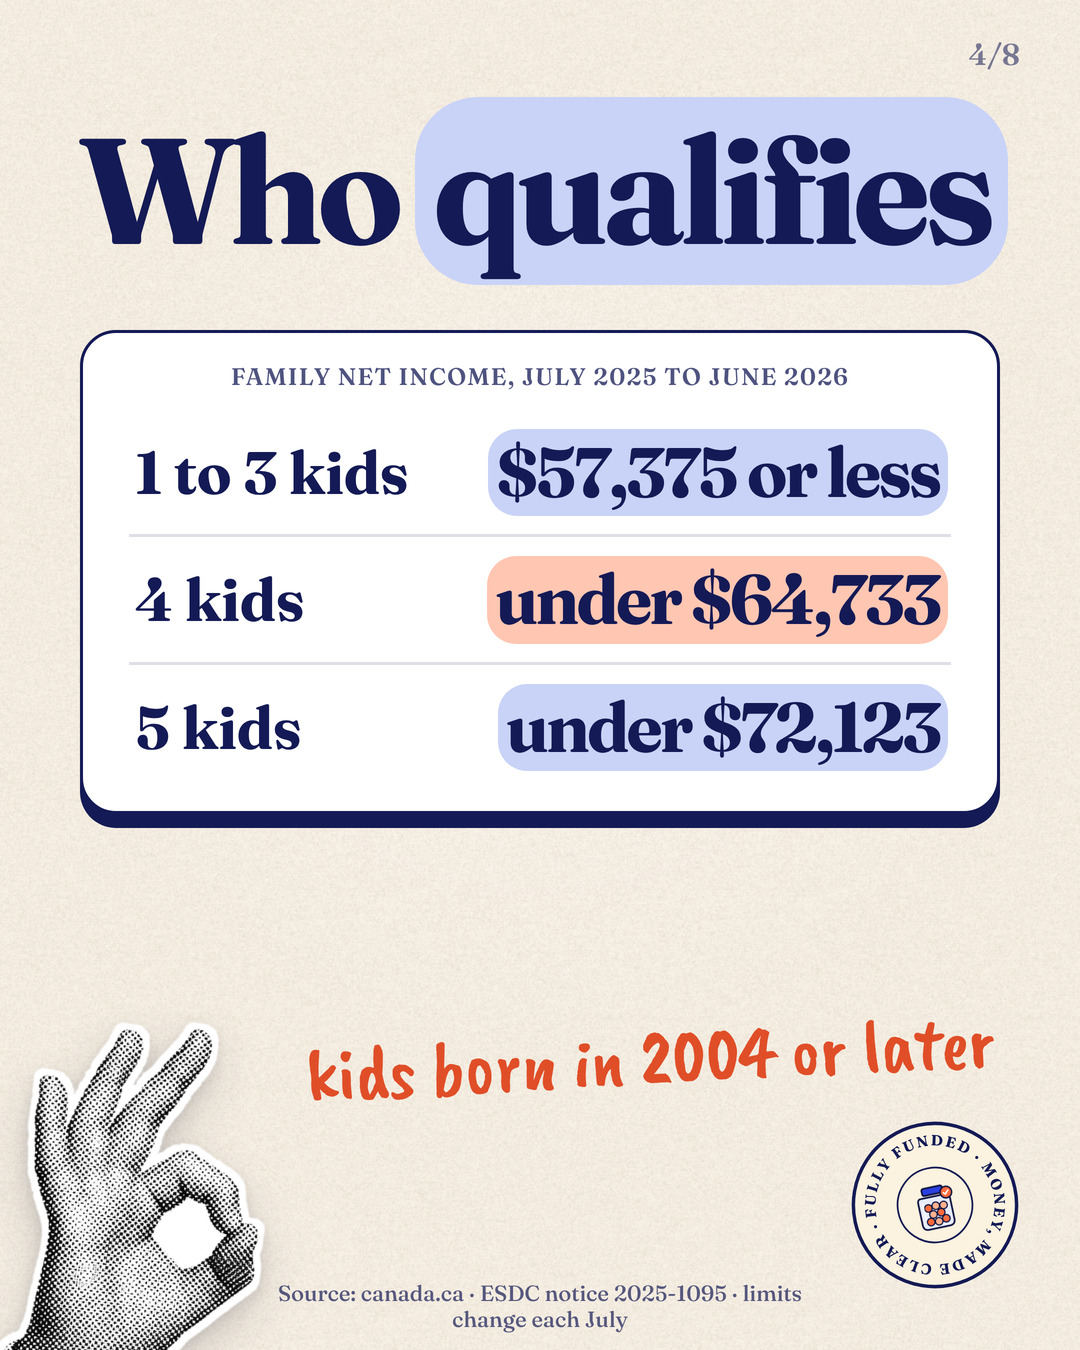
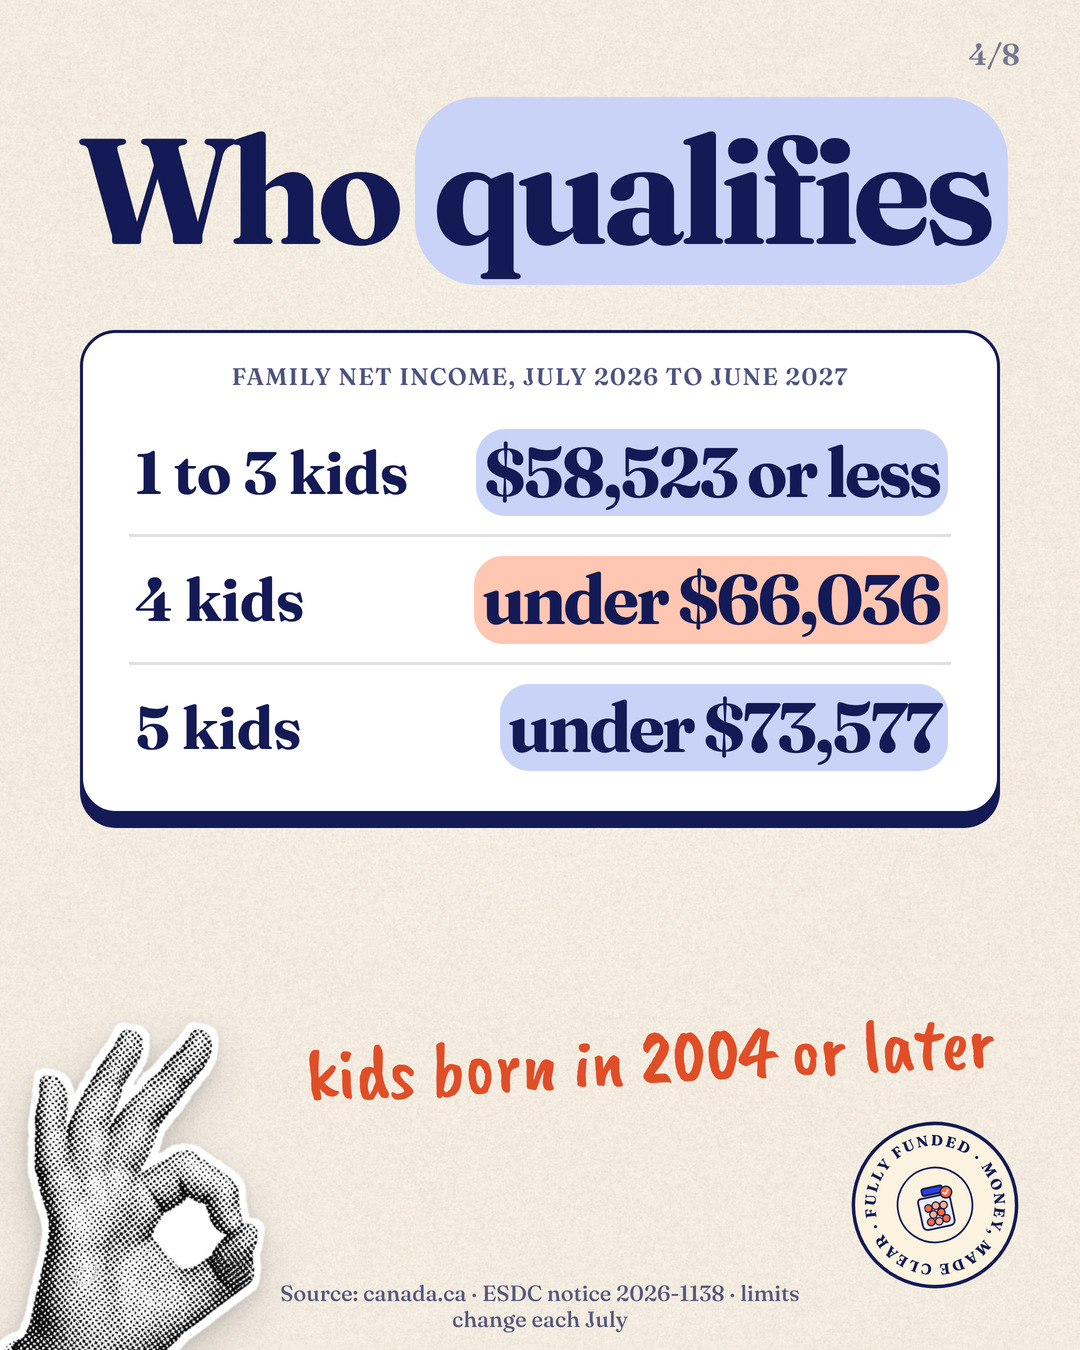
Learning Bond posts: current July 2026-June 2027 income limits (ESDC notice 2026-1138)
Claude-Session: https://claude.ai/code/session_01PJwkTdhx1VuEhXpAhTUaLc

diff --git a/studio/editorial/v5_ff.py b/studio/editorial/v5_ff.py
@@ -236,9 +236,9 @@ post("ff-1021-clb-who-qualifies", FF, "2026-10-21T12:00", "learning",
      [dict(k="say", f="lite", label="sound too good?", text="The government / can put up to / *$2,000* toward / your kid's school.",
            size=124, sub="and you add $0"),
       dict(k="say", f="cob", label="the Canada Learning Bond", text="*$500* to start. / *$100* more / each year. / Up to $2,000.", size=124),
-      dict(k="rows", f="lite", text="Who *qualifies*", cap="family net income, July 2025 to June 2026",
-           rows=[("1 to 3 kids", "$57,375 or less"), ("4 kids", "under $64,733"), ("5 kids", "under $72,123")],
-           sub="kids born in 2004 or later", src="canada.ca · ESDC notice 2025-1095 · limits change each July"),
+      dict(k="rows", f="lite", text="Who *qualifies*", cap="family net income, July 2026 to June 2027",
+           rows=[("1 to 3 kids", "$58,523 or less"), ("4 kids", "under $66,036"), ("5 kids", "under $73,577")],
+           sub="kids born in 2004 or later", src="canada.ca · ESDC notice 2026-1138 · limits change each July"),
       dict(k="say", f="coral", label="the part nobody mentions", text="It only lands / in an *RESP:* / a savings account / for school.",
            size=124),
       dict(k="say", f="cob", label="you're not alone", text="In 2022, / *2.5 million* / eligible kids / never got it.",
@@ -249,15 +249,15 @@ post("ff-1021-clb-who-qualifies", FF, "2026-10-21T12:00", "learning",
            size=100, save="send this to a new parent")],
      "The government will put up to $2,000 toward your child's education, and you don't have to add a dollar.\n\n"
      "It's called the Canada Learning Bond. It starts with $500, then adds $100 every year, up to $2,000.\n\n"
-     "Who qualifies (July 2025 to June 2026): kids born in 2004 or later, in families with net income of $57,375 or less for 1 to 3 kids, "
-     "under $64,733 for 4 kids, or under $72,123 for 5 kids. The limits change each July.\n\nThe part nobody mentions: the money only lands "
+     "Who qualifies (July 2026 to June 2027): kids born in 2004 or later, in families with net income of $58,523 or less for 1 to 3 kids, "
+     "under $66,036 for 4 kids, or under $73,577 for 5 kids. The limits change each July.\n\nThe part nobody mentions: the money only lands "
      "in an RESP, a savings account for school. Many banks open one for free. In 2022, about 2.5 million eligible kids had never received it. "
      "Didn't apply when they were a baby? You can still apply until your child turns 21.\n\n"
      "Do this: this week, ask your bank to open an RESP with the Canada Learning Bond. Bring your child's SIN.\n\n"
      "Money Foundations, Part 4. Send this to a new parent.\n\n#RESP #canadalearningbond #parenting #canadianfinance #moneyfoundations",
      "Sources: canada.ca (CRA), Canada Learning Bond: up to $2,000; $500 for the first eligible year plus $100 for each additional year "
      "up to age 15; children born in 2004 or later; personal contributions are not required; the beneficiary must be under 21 when applying. "
-     "Income limits: ESDC notice 2025-1095, July 1, 2025 to June 30, 2026 (adjusted family net income). Take-up: Godbout & Samoisette, "
+     "Income limits: ESDC notice 2026-1138, July 1, 2026 to June 30, 2027 (adjusted family net income). Take-up: Godbout & Samoisette, "
      "C.D. Howe Institute, \"On Its Anniversary, Has the Goal of the Canada Learning Bond Been Achieved?\", citing ESDC's 2022 Canada "
      "Education Savings Program statistical review: take-up rose from 29.1% (2013) to 42.5% (2022); 2.5 million of 4.4 million eligible "
      "children had not received it.")

diff --git a/studio/editorial/v5_lf.py b/studio/editorial/v5_lf.py
@@ -1,8 +1,8 @@
 """Littlefold content, Oct 18-21. Rewritten Oct 17 night to the ONE-READ standard (/home/claude/one-read-standard.md).
 Uses post()/reel()/chain() from specs_teach. Only this page's entries live here.
 Kids' money figures checked on canada.ca (Oct 17): CESG 20% on the first $2,500 a year (max $500/yr basic, $7,200 lifetime,
-catch-up up to $1,000 a year); CLB $500 + $100/yr up to $2,000, no contribution, born 2004+, ADFNI <= $57,375 for 1-3 kids
-(Jul 2025 - Jun 2026, ESDC notice 2025-1095)."""
+catch-up up to $1,000 a year); CLB $500 + $100/yr up to $2,000, no contribution, born 2004+, ADFNI <= $58,523 for 1-3 kids
+(Jul 2026 - Jun 2027, ESDC notice 2026-1138)."""
 from specs_teach import post, reel, chain, FF, HB, LH, LF, NG, NOT_MED, MADE, PRIV, K  # noqa: F401
 
 
@@ -26,7 +26,7 @@ CESG_SRC = ("Government of Canada, canada.ca, Canada Education Savings Grant: th
             "$1,000 of grant in one year, until the end of the year the child turns 17.")
 CLB_SRC = ("Government of Canada, canada.ca, Canada Learning Bond: $500 the first year, then $100 for each year you qualify, up to "
            "$2,000. No personal contribution needed. Children born in 2004 or later, from lower-income families. Income limit for "
-           "July 2025 to June 2026: adjusted family net income of $57,375 or less for 1 to 3 children (ESDC notice 2025-1095).")
+           "July 2026 to June 2027: adjusted family net income of $58,523 or less for 1 to 3 children (ESDC notice 2026-1138).")
 
 # ================================================================== FEED
 # Oct 18, 11:30 · REPLACES lf-04-sleep-when-baby-sleeps · kids' money 1/2
@@ -85,8 +85,8 @@ post("lf-1019-learning-bond", LF, "2026-10-19T11:30", "deep",
            size=124),
       dict(k="say", f="pink", text="*$500* to start. / *$100* more / each year. / Up to *$2,000.*",
            size=128, src="canada.ca, Canada Learning Bond"),
-      dict(k="say", f="cream", label="who qualifies", text="1 to 3 kids, and / family net income / of *$57,375* / or less.",
-           sub="for July 2025 to June 2026", size=124),
+      dict(k="say", f="cream", label="who qualifies", text="1 to 3 kids, and / family net income / of *$58,523* / or less.",
+           sub="for July 2026 to June 2027", size=124),
       dict(k="say", f="butter", label="the part nobody tells you", text="Missed it? / Kids born *2004* / *or later* can apply / *before 21.*",
            size=124),
       dict(k="do", f="pink", text="This week, ask your bank for a *free RESP* with the Learning Bond. Bring your child's SIN.",
@@ -94,7 +94,7 @@ post("lf-1019-learning-bond", LF, "2026-10-19T11:30", "deep",
      "Up to $2,000 for your child's education, and you don't have to put in a cent.\n\n"
      "It's called the Canada Learning Bond. The government puts $500 into your child's RESP, then $100 for each year your family "
      "qualifies, up to $2,000. No deposit is needed.\n\n"
-     "Who can get it: for July 2025 to June 2026, families with 1 to 3 children and an adjusted family net income of $57,375 or less. "
+     "Who can get it: for July 2026 to June 2027, families with 1 to 3 children and an adjusted family net income of $58,523 or less. "
      "Children born in 2004 or later can apply any time before they turn 21, so it's not too late if you missed it. In 2022, only about "
      "4 in 10 eligible kids had received it.\n\n"
      "Do this: this week, ask your bank for a free RESP with the Canada Learning Bond. Bring your child's SIN.\n\n"
